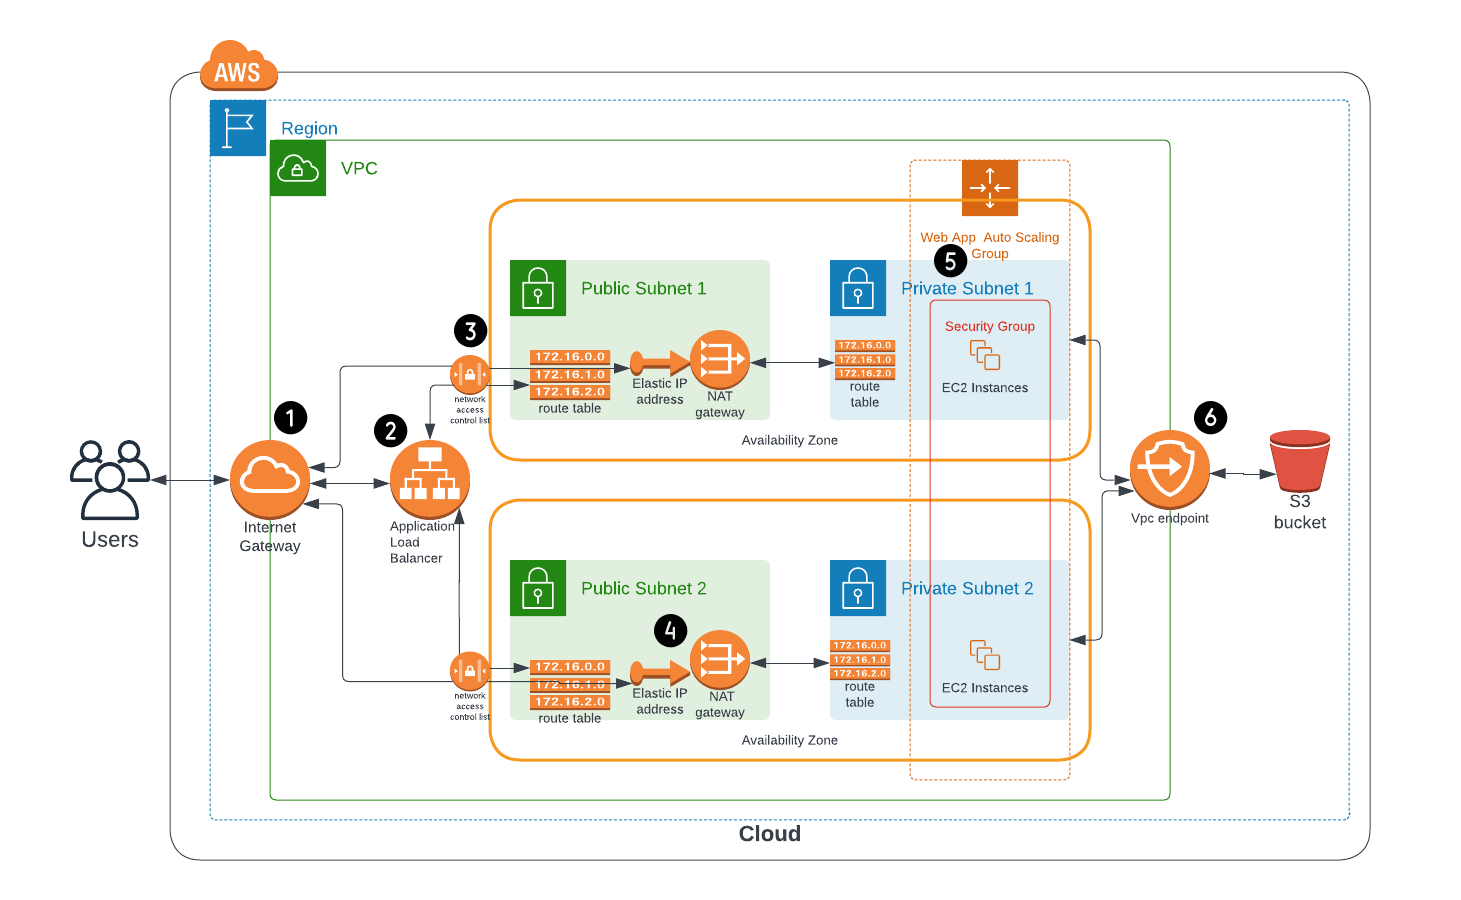
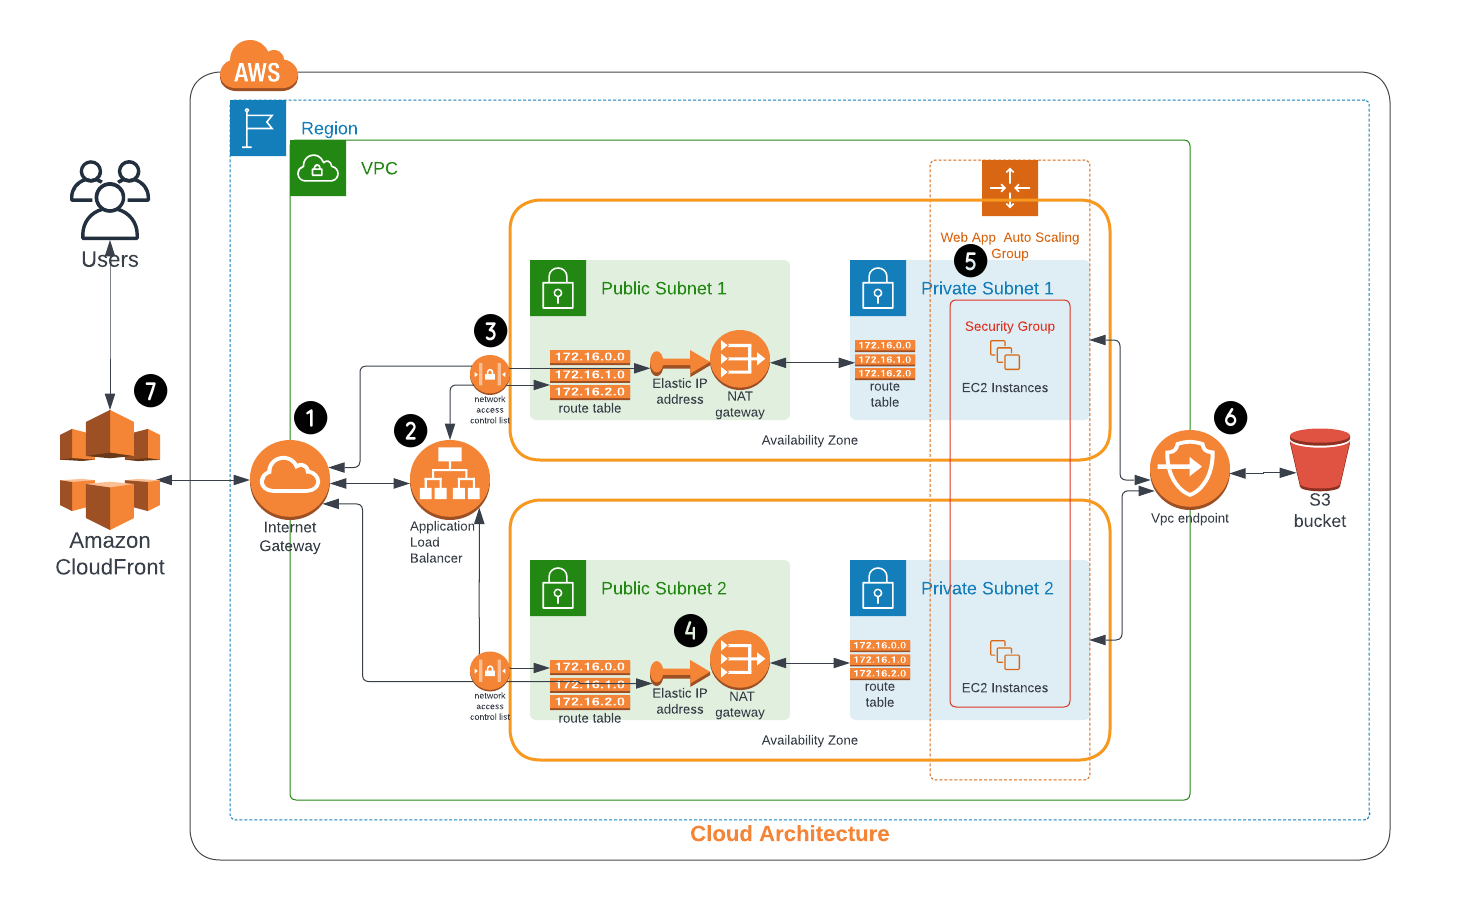
Updated README.md

diff --git a/README.md b/README.md
@@ -11,7 +11,7 @@ In this project, I will build the infrastructure to host a high availability web
 4. Nat gateways and an Elastic IP in public subnets for internet access by web application servers in private subnets.
 5. Web application servers run as Auto Scaling Group of EC2 instances in private subnets with a security group.
 6. A Vpc endpoint gateway to an S3 bucket service. Web application servers access to the service from private subnets are routed to this gateway endpoint to avoid the Nat gateways charges.
-
+7. Optional cloudfront distribution to serve the web application.
 ## Solution details
 - Prerequisites:
     - Amazon AWS Account
@@ -89,9 +89,10 @@ using [!GetAZs](https://docs.aws.amazon.com/AWSCloudFormation/latest/UserGuide/i
 
     The S3 Vpc endpoint added a route to the specified route table to direct any S3 prefix list traffic (ip addresses) to the Vpc gateway endpoint not through the Nat gateway or Internet gateway. This can save the costs of using Nat gateways.
 
-    ![Network http80 tests](/docs/images/test_network_http80.png)
 
-    ![Network vpce tests](/docs/images/test_network_vpce.png)
+    ![Network http80 test image](/docs/images/test_network_http80.png)
+
+    ![Network vpce test image](/docs/images/test_network_vpce.png)
 
 ## Web Application 
 
